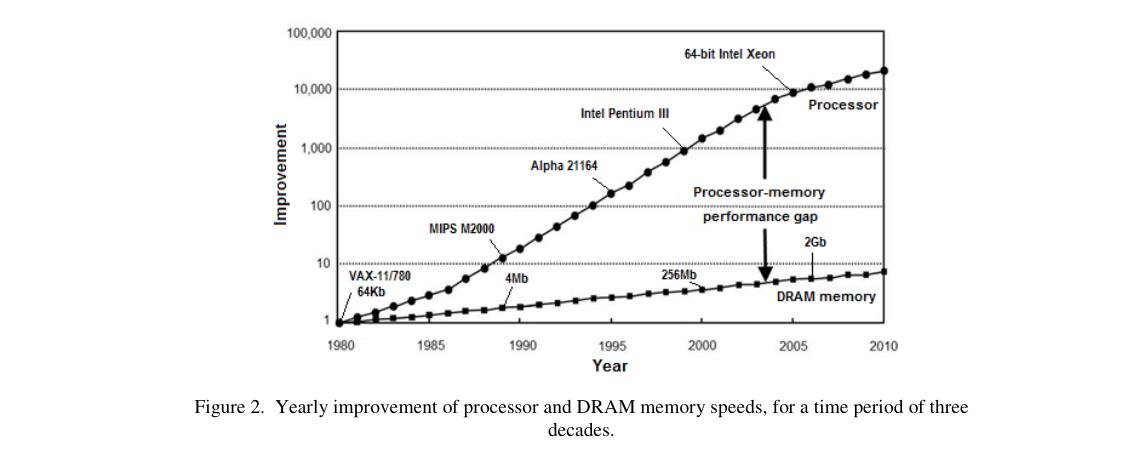
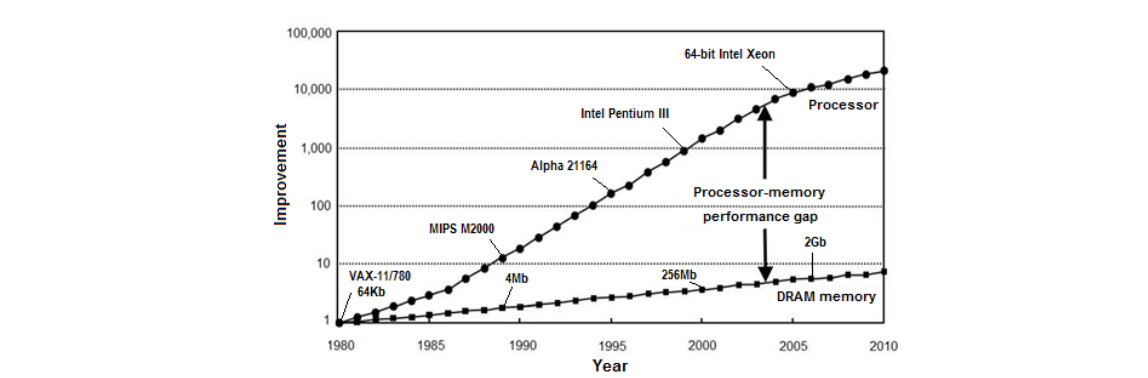
more

Changed region(s): [[0.1524, 0.0582, 0.8537, 0.9894]]

diff --git a/lecture_02_pipeline.tex b/lecture_02_pipeline.tex
@@ -373,7 +373,7 @@
       font=\tiny, below=2mm of RegFile.south] (SignExt) {\rotatebox{90}{Sign Ext.}};
 
 % EX Stage Components - ALU and MUX for immediate selection
-\node[alu_style, anchor=blpin 1] (ALU) at ([xshift=4cm]RegFile.brpin 1) {};
+\node[alu_style, anchor=blpin 1] (ALU) at ([xshift=4cm]RegFile.rpin 1) {};
 \node[mux2, anchor=rpin 1] (ALUMux) at ([xshift=-6mm]ALU.lpin 2) {};
 \node[font=\scriptsize, below right=-2mm of ALU.blpin 1] {\rotatebox{-45}{ALU}};
 
@@ -433,14 +433,14 @@
 
 % IMem to RegFile and Decode
 \draw[data_path] (IMem.brpin 2) -- ++(1,0) node[data_connector] (InstJunction) {};
-\draw[data_path] (InstJunction) -- (RegFile.blpin 1);
+\draw[data_path] (InstJunction) |- (RegFile.blpin 1);
 \draw[data_path] (InstJunction) |- (RegFile.blpin 2);
 
 % Instruction to Decode
 \draw[data_path] (InstJunction) |- (Decode.west);
 
 % Control signals from Decode
-\draw[data_path, orange!80!black] (Decode.east) -- ++(15mm,0) node[control_label, above=-1pt, pos=0.5] {Control signals};
+\draw[data_path, orange!80!black] (Decode.east) -- (Decode -| WBMux.tpin 1) node[control_label, above=-1pt, pos=0.2] {Control signals};
 
 % ALU source control
 \coordinate (ctrl_alusrc) at (Decode -| ALUMux.tpin 1);
@@ -463,15 +463,15 @@
 \draw[->, >=stealth, thick, orange!80!black] (ctrl_wbsel) -- (WBMux.tpin 1) node[control_label, pos=0.3, right] {WB\\select};
 
 % RegFile to ALU
-\draw[data_path] (RegFile.brpin 1) -- (ALU.blpin 1);
+\draw[data_path] (RegFile.rpin 1) -- (ALU.lpin 1);
 \coordinate (WriteDataJunction) at ([xshift=-3mm]ALUMux.lpin 1);
-\draw[data_path] (RegFile.brpin 2) -- (WriteDataJunction) node[data_connector] {} -- (ALUMux.blpin 1);
+\draw[data_path] (RegFile.rpin 2 |- WriteDataJunction) -- (WriteDataJunction) node[data_connector] {} -- (ALUMux.blpin 1);
 
 % Write data to DMem
 \draw[data_path] (WriteDataJunction) |- (DMem.lpin 10);
 
 % Sign Extend to ALUMux and Target Adder
-\draw[data_path] (IMem.brpin 2) |- (SignExt.west);
+\draw[data_path] (InstJunction) |- (SignExt.west);
 \coordinate (ImmJunction) at ([xshift=-7mm]ALUMux.lpin 2);
 \draw[data_path] (SignExt.east) -| (ImmJunction) -- (ALUMux.lpin 2);
 \node[data_connector] at (ImmJunction) {};
@@ -488,14 +488,13 @@
 
 % ALU result to WB Mux (bypass memory)
 \node[data_connector] (ALUResConn) at ([xshift=5mm]ALU.brpin 4) {};
-\draw[data_path] (ALUResConn) |- ([yshift=-15mm]DMem.south) -| ([xshift=-5mm]WBMux.lpin 2) -- (WBMux.lpin 2);
+\draw[data_path] (ALUResConn) |- ([yshift=-5mm]DMem.south) -| ([xshift=-5mm]WBMux.lpin 2) -- (WBMux.lpin 2);
 
 % WB Mux output to Register File write data
 \coordinate (dst_y_level) at ([yshift=-5mm]SignExt.south);
 \draw[data_path] (WBMux.rpin 1) -- ++(0.5,0) |- ([xshift=-3mm]RegFile.blpin 4 |- dst_y_level) -- ([xshift=-3mm]RegFile.blpin 4) -- (RegFile.blpin 4);
 
 % Dst from instruction to RegFile
-\node[font=\scriptsize, below=1mm of SignExt] {dst};
 \draw[data_path] (InstJunction) |- (RegFile.blpin 3);
 
 % Register File labels
@@ -2949,7 +2948,7 @@ Assuming 20\% branches, $\sim$50\% taken on average
 % ID/EX to ALU (top input direct, bottom through MUX)
 \draw[data_path] (IDEX.east |- ALU.blpin 1) -- (ALU.blpin 1);
 \coordinate (WriteDataJunction) at ([xshift=-3mm]ALUMux.lpin 1);
-\draw[data_path] (IDEX.east |- ALUMux.lpin 1) -- (WriteDataJunction) node[data_connector] {} -- (ALUMux.blpin 1);
+\draw[data_path] (IDEX.east |- WriteDataJunction) -- (WriteDataJunction) node[data_connector] {} -- (ALUMux.blpin 1);
 \draw[data_path] (WriteDataJunction) |- (EXMEM.west |- DMem.lpin 10);
 \draw[data_path] (EXMEM.east |- DMem.lpin 10) -- (DMem.lpin 10);
 \draw[data_path] (ALUMux.rpin 1) -- (ALU.blpin 2);

diff --git a/lecture_03_cache.tex b/lecture_03_cache.tex
@@ -35,19 +35,14 @@
 \section{Overview}
 
 \begin{frame}{Processor--Memory Gap (summary)}
-\begin{columns}[T]
-\begin{column}{0.45\textwidth}
 \begin{itemize}
   \item CPU performance improved much faster than DRAM latency/bandwidth
-  \item Performance gap grew $\sim$50\%/year historically
-  \item Motivation: hide long memory access times from the CPU
+  \item Performance gap grew $\sim$50\%/year historically --- motivation for caches
 \end{itemize}
-\end{column}
-\begin{column}{0.52\textwidth}
+\vspace{0.2cm}
 \centering
-\includegraphics[width=\textwidth]{figures/processor_memory_gap.png}
-\end{column}
-\end{columns}
+\includegraphics[width=0.75\textwidth]{figures/processor_memory_gap.png}\\[0.1cm]
+{\tiny Source: Mittal \& Vetter, IJCSIT 2015}
 \end{frame}
 
 \begin{frame}{Memory Trade-Offs}
